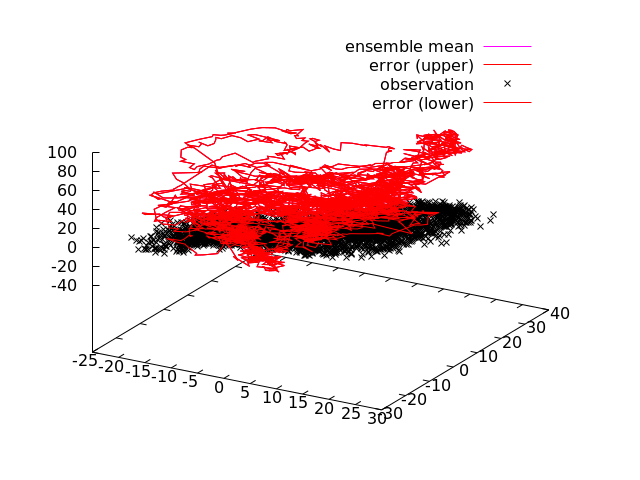
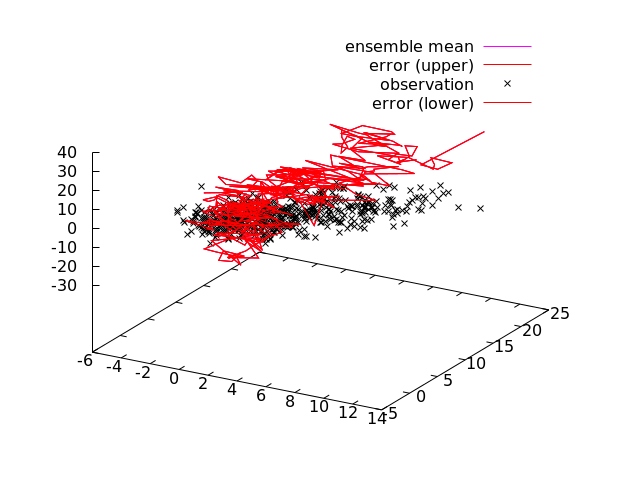
WIP.

diff --git a/lorenz-problems/sixty-three/src/main.rs b/lorenz-problems/sixty-three/src/main.rs
@@ -24,7 +24,7 @@ use na_df::kalman::{EnsembleInit};
 
 use nd_par::prelude::*;
 
-const STEPS: usize = 5000;
+const STEPS: usize = 500;
 const RNG_SEED: [u64; 1] = [1];
 const TOL: f64 = 0.000000005;
 const TAU: f64 = 0.0004;
